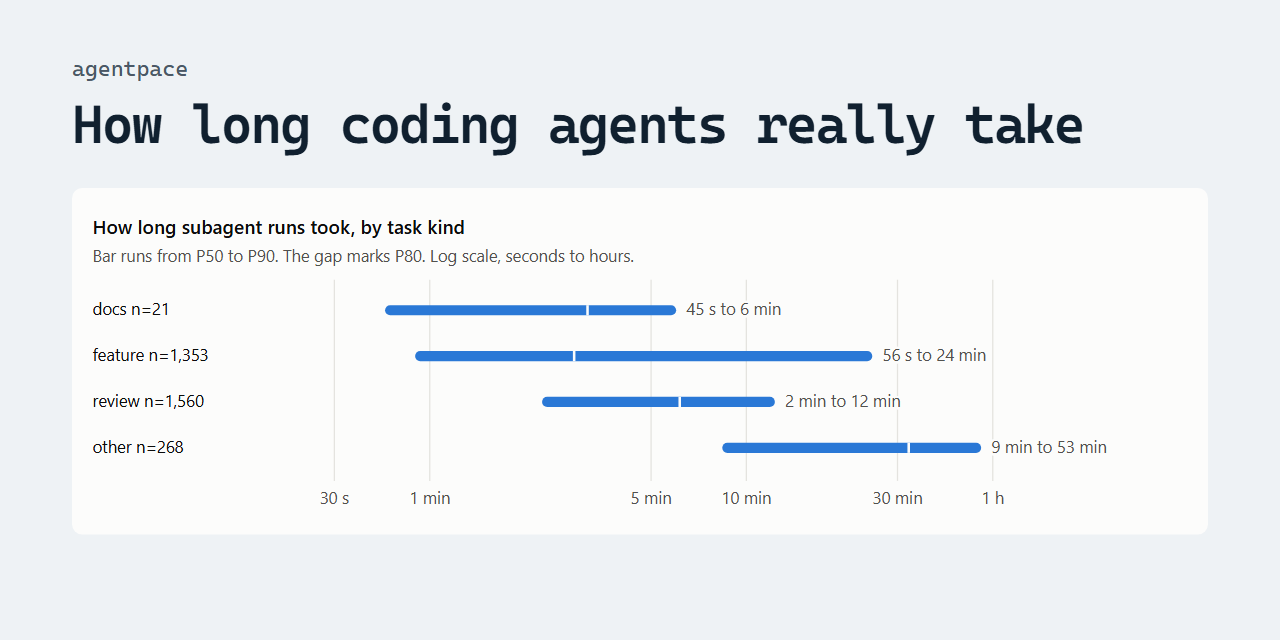
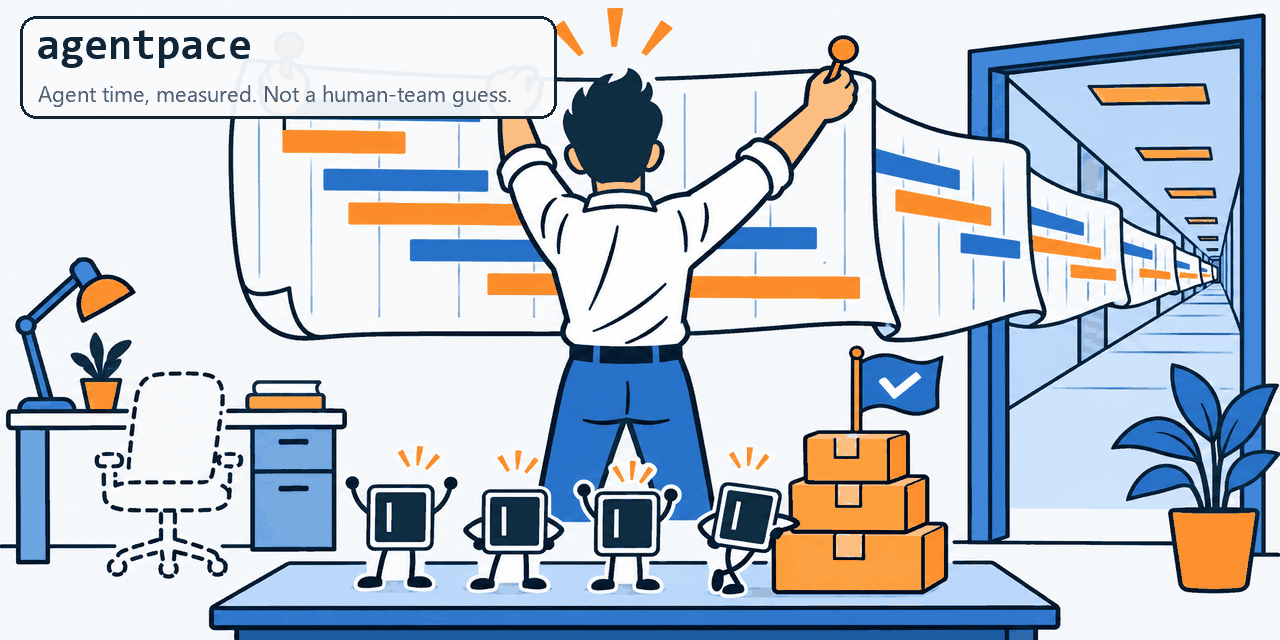
docs: add a hero illustration and refresh the social preview
The hero shows a Gantt chart so long it runs out the door, a crew of
terminal cursors that has already stacked the finished work, and an
empty chair at a separate review desk for the human part. No words and
no numbers, so it cannot carry an unchecked figure. Illustration
generated with Codex image_generation, resized and encoded as WebP.

The social preview reuses it with the project name; the old one showed
0.1.0 run counts that no longer matched the dataset.

diff --git a/docs/index.html b/docs/index.html
@@ -71,6 +71,7 @@
     letter-spacing: -0.035em;
     max-width: 18ch;
   }
+  .hero { display: block; width: 100%; height: auto; margin: 0 0 32px; border-radius: 12px; }
   .lede { margin: 0 0 40px; color: var(--muted); max-width: 62ch; font-size: 18px; }
   .trace { width: 100%; height: auto; display: block; overflow: visible; }
   .trace text { font: 12px var(--mono); fill: var(--muted); }
@@ -160,6 +161,7 @@
 
   <main>
     <h1>How long coding agents really take</h1>
+    <img class="hero" src="assets/hero.webp" width="1600" height="800" decoding="async" alt="An office worker pins up a Gantt chart so long it runs out the door, while a tiny crew of terminal cursors has already stacked finished boxes; a separate review desk with an outlined empty chair waits for the human part.">
     <p class="lede" id="lede">Measured from 3,383 completed agent runs, not from anyone's opinion. Half finished within 2 min. One in ten took more than 20 min.</p>
     <p class="lede">Ask an assistant how long a feature will take and it answers in human-team time. agentpace answers from measured agent runs instead: P50, P80 and P90 for your own plan of tasks, with the human part stated on its own line. Logging your own runs works with Claude Code subagents and Codex today.</p>
 

diff --git a/tests/test_site.py b/tests/test_site.py
@@ -104,7 +104,11 @@ class Page(unittest.TestCase):
         cls.html = PAGE.read_text(encoding="utf-8")
 
     def test_loads_nothing_from_anywhere(self):
-        self.assertIsNone(re.search(r"<(script|img|iframe)[^>]+src=", self.html))
+        self.assertIsNone(re.search(r"<(script|iframe)[^>]+src=", self.html))
+        # The one exception is an image beside the page, so no request leaves the site.
+        for source in re.findall(r"<img[^>]+src=\"([^\"]*)\"", self.html):
+            self.assertRegex(source, r"^assets/[\w.-]+$")
+            self.assertTrue((PAGE.parent / source).is_file(), source)
         self.assertIsNone(re.search(r"<link[^>]+href=", self.html))
         self.assertNotIn("@import", self.html)
         self.assertNotIn("url(", self.html)

diff --git a/docs/DESIGN.md b/docs/DESIGN.md
@@ -229,7 +229,7 @@ for each draw:
 
 **Leaderboard.** Median, P75 and P90 by `model × task_kind × risk`, with n shown on every cell and cells with n<10 greyed out. Greyed cells still show their timing, as the brief specifies. Rare model combinations are the quasi-identifiers in this data, and a stricter suppression rule can be added if contributors ask for one.
 
-**Site.** One `docs/index.html`, with no build step and no third-party requests. The leaderboard JSON is embedded inline, so it works from `file://`. Fetching it would add a network call. `agentpace site` regenerates the embedded block and CI checks that it is current.
+**Site.** One `docs/index.html`, with no build step and no third-party requests. The leaderboard JSON is embedded inline, so it works from `file://`. Fetching it would add a network call. Since 0.6.1 it shows one image, `assets/hero.webp`, read from beside the page, so nothing leaves the site. A test allows images only under `assets/`. `agentpace site` regenerates the embedded block and CI checks that it is current.
 
 ## 8. Skill and install
 

diff --git a/CHANGELOG.md b/CHANGELOG.md
@@ -4,6 +4,14 @@ This project follows [Keep a Changelog](https://keepachangelog.com/en/1.1.0/) an
 
 ## Unreleased
 
+### Added
+
+- A hero illustration at the top of the README and the site: a Gantt chart so long it runs out the door, a crew of terminal cursors that has already stacked the finished work, and an empty chair at a separate review desk for the human part. It holds no words and no numbers, so it cannot carry an unchecked figure. Generated with Codex image generation, then resized and encoded as WebP (`docs/assets/hero.webp`).
+
+### Changed
+
+- The social preview (`docs/assets/social-preview.png`) is the same illustration with the project name. The old one showed run counts from 0.1.0 that no longer matched the dataset.
+
 ## 0.6.0 - 2026-11-07
 
 ### Added

diff --git a/README.md b/README.md
@@ -2,6 +2,8 @@
 
 **How long will your coding-agent work take? A range you can plan on, measured from real runs.**
 
+![An office worker pins up a Gantt chart so long it runs out the door, while a tiny crew of terminal cursors has already stacked finished boxes; a separate review desk with an outlined empty chair waits for the human part.](docs/assets/hero.webp)
+
 [![CI](https://github.com/mohamedzhioua/agentpace/actions/workflows/ci.yml/badge.svg)](https://github.com/mohamedzhioua/agentpace/actions/workflows/ci.yml)
 ![Python 3.10+](https://img.shields.io/badge/python-3.10%2B-blue)
 [![Code: MIT](https://img.shields.io/badge/code-MIT-blue)](LICENSE)
